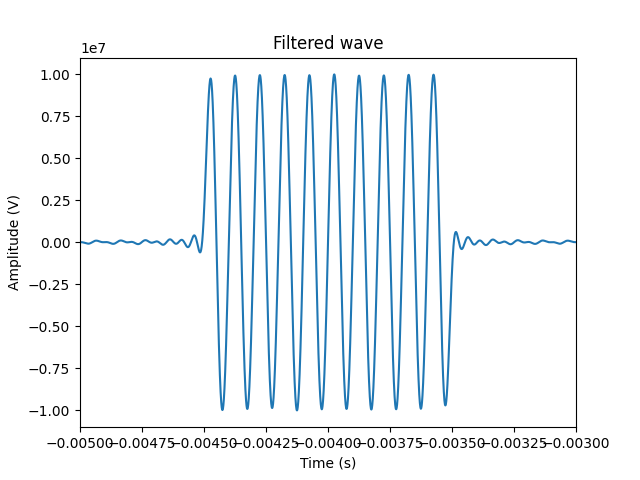
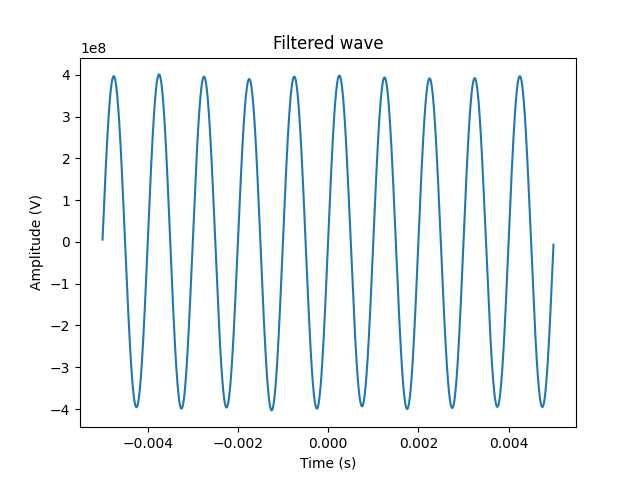
saving

diff --git a/filter_example.py b/filter_example.py
@@ -46,29 +46,30 @@ def calculate_fft(sampled_wave, sampling_frequency, fft_size):
     return (fft_values, frequencies_to_plot, dft_real_im)
 
 
-def mulitply_ffts(dft_real_im_wave, dft_real_im_sinc, time_range):
+def multiply_ffts(dft_real_im_wave, dft_real_im_sinc, fft_size, fs):
 
     fft_both = dft_real_im_wave*dft_real_im_sinc
     abs_fft_both = abs(fft_both)
-    filtered_wave = np.fft.ifft((np.fft.ifftshift(fft_both)), n=len(time_range))
+    filtered_wave = fft_size*np.fft.ifft((np.fft.ifftshift(fft_both)), n=fft_size)
+    time_range_recomp = np.arange(-len(filtered_wave)/2, len(filtered_wave)/2)/fs
 
-    return (abs_fft_both, filtered_wave)
+    return (abs_fft_both, filtered_wave, time_range_recomp)
 
 
 #Inputs
-sampling_frequency = 2000000 #Hz
+sampling_frequency = 200000 #Hz
 time_duration = .01 #s
 center_frequency = 1000 #Hz
 cutoff_frequency = 2000 #Hz
 snr_dB = 20 #dB
-fft_size = 200000
+fft_size = 2000
 
 
 (time_range, sampled_wave) = generate_wave(sampling_frequency, time_duration, center_frequency, snr_dB)
 (time_range, sampled_sinc) = generate_sinc(sampling_frequency, time_duration, cutoff_frequency)
 (sine_wave_fft, frequencies_to_plot_1, dft_real_im_wave) = calculate_fft(sampled_wave, sampling_frequency, fft_size)
 (sinc_fft, frequencies_to_plot_2, dft_real_im_sinc) = calculate_fft(sampled_sinc, sampling_frequency, fft_size)
-(fft_both, filtered_wave) = mulitply_ffts(dft_real_im_wave, dft_real_im_sinc, time_range)
+(fft_both, filtered_wave, time_range_recomp) = multiply_ffts(dft_real_im_wave, dft_real_im_sinc, fft_size, sampling_frequency)
 
 
 plt.figure(0)
@@ -76,7 +77,6 @@ plt.plot(time_range, sampled_wave)
 plt.xlabel("Time (s)")
 plt.ylabel("Voltage (V)")
 plt.title("Sine wave with noise")
-plt.xlim(-time_duration/4, time_duration/4)
 plt.savefig("filter_example_images/sine_wave_with_noise.png")
 
 plt.figure(1)
@@ -84,7 +84,6 @@ plt.plot(time_range, sampled_sinc)
 plt.xlabel("Time (s)")
 plt.ylabel("Voltage (V)")
 plt.title("Sinc time domain")
-plt.xlim(-time_duration/4, time_duration/4)
 plt.savefig("filter_example_images/sinc_time_domain.png")
 
 plt.figure(2)
@@ -109,9 +108,8 @@ plt.xlim(-3*cutoff_frequency,3*cutoff_frequency)
 plt.savefig("filter_example_images/fft_multiplied.png")
 
 plt.figure(5)
-plt.plot(time_range, filtered_wave)
+plt.plot(time_range_recomp, filtered_wave)
 plt.xlabel("Time (s)")
 plt.ylabel('Amplitude (V)')
 plt.title("Filtered wave")
-plt.xlim(-.005, -.003)
 plt.savefig("filter_example_images/filtered_wave.png")
